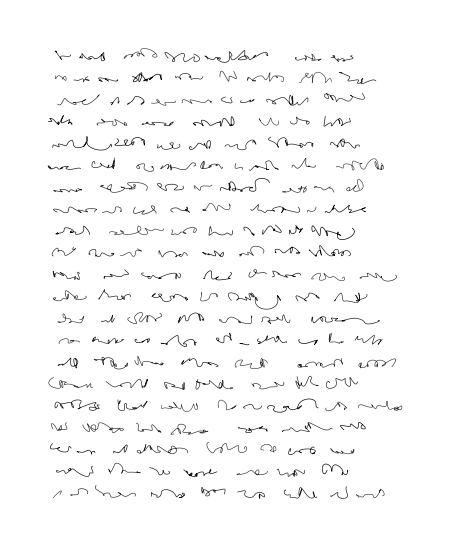
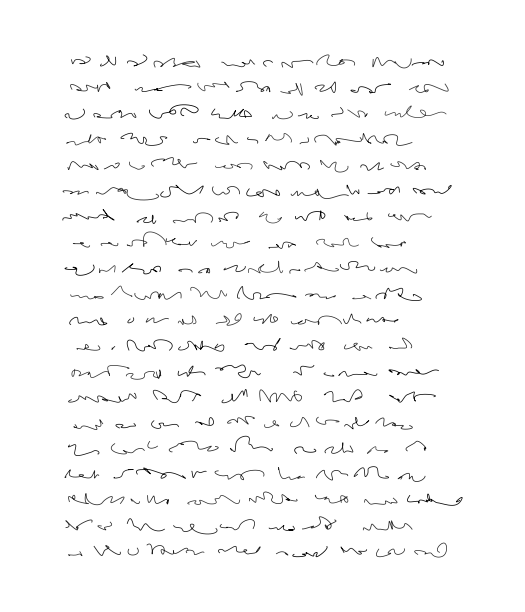
Adjustments.

diff --git a/inconv_words.py b/inconv_words.py
@@ -7,6 +7,7 @@ import matplotlib.pyplot as plt
 from numpy             import concatenate
 from numpy             import column_stack
 from numpy             import linspace
+from numpy.random      import beta
 from numpy.random      import normal
 from numpy.random      import random
 from numpy.random      import poisson
@@ -21,7 +22,7 @@ def random_coords(x_loc, x_stretch, y_loc, y_stretch, n):
     def n_coords(stretch, loc):
         return (random(n) * stretch) + loc
 
-    xy = [n_coords(x_stretch, x_loc), n_coords(y_stretch(), y_loc)]
+    xy = [n_coords(x_stretch(), x_loc), n_coords(y_stretch(), y_loc)]
     return column_stack(xy)
 
 
@@ -29,7 +30,7 @@ def word_points( word_len, x_loc, x_stretch, x_spread, y_loc, y_stretch
                , n_char_pts):
 
     def coords_shift_x(x_pos):
-        x_shift = x_spread(x_pos)
+        x_shift = x_pos * x_spread()
         return random_coords( x_loc + x_shift
                             , x_stretch
                             , y_loc
@@ -135,10 +136,10 @@ def plot_params(params, fig_params, filename):
 
 
 def main():
-    seed(2)
+    seed(1)
 
-    fig_params   = { 'figsize'     : (3, 3.65)
-                   , 'dpi'         : 150
+    fig_params   = { 'figsize'     : (3, 3.5)
+                   , 'dpi'         : 175
                    }
     point_params = { 'marker'      : 'o'
                    , 'c'           : 'r'
@@ -151,16 +152,18 @@ def main():
     ax_params    = { 'point_params': point_params
                    , 'line_params' : line_params
                    }
-    char_params  = { 'x_stretch'   : 1.25
-                   , 'x_spread'    : lambda x: x * uniform(1.65, 2.65)
+    char_params  = { 'x_stretch'   : lambda: beta( poisson(1) + 1
+                                                 , poisson(4) + 1
+                                                 ) + 1
+                   , 'x_spread'    : lambda: uniform(1.5, 2.75)
                    , 'y_stretch'   : lambda: uniform(0.7, 3.7)
-                   , 'n_char_pts'  : lambda: poisson(0.75) + 2
+                   , 'n_char_pts'  : lambda: poisson(0.1) + 2
                    }
-    params       = { 'n_lines'     : 21
+    params       = { 'n_lines'     : 20
                    , 'x_init'      : lambda: uniform(0, 3.5)
                    , 'x_limit'     : 100
-                   , 'word_gap'    : lambda: uniform(2.5, 3)
-                   , 'y_scale'     : 7
+                   , 'word_gap'    : lambda: uniform(2.15, 2.85)
+                   , 'y_scale'     : 7.25
                    , 'y_smudge'    : lambda: normal(0, 0.25)
                    , 'n_word_len'  : lambda: poisson(3) + 2
                    , 'char_params' : char_params
